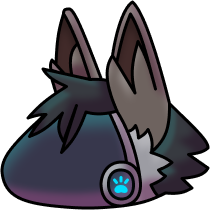
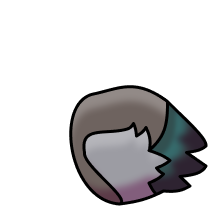
Improved animations

diff --git a/style/protogen.css b/style/protogen.css
@@ -5,8 +5,10 @@
   width: 150px;
   height: 150px;
   transform: scaleX(-1);
-  translate: -50% 0;
+  translate: -50% 10%;
   background: url(images/protogen/neck.png) no-repeat center top / contain;
+  pointer-events: none;
+  user-select: none;
 }
 
 .head {
@@ -21,14 +23,61 @@
   transition: transform 0.3s cubic-bezier(0.5, 0.8, 0, 1.3);
 }
 
+.ear {
+  position: absolute;
+  top: 11px;
+  right: 33px;
+  width: 124px;
+  height: 113px;
+  transition: transform 0.3s cubic-bezier(0.5, 0.8, 0, 2);
+}
+
+.ear.left {
+  transform: rotate(calc(-25deg * var(--mouse-progress-y))) scaleX(calc(0.975 - (0.025 * var(--mouse-progress-x))));
+  transform-origin: 25% 75%;
+  background: url(images/protogen/ear_left.png) no-repeat center top / contain;
+}
+
+.ear.right {
+  z-index: 2;
+  transform: rotate(calc(-5deg * var(--mouse-progress-y))) scaleX(calc(0.975 - (0.025 * var(--mouse-progress-x))));
+  transform-origin: 75% 75%;
+  background: url(images/protogen/ear_right.png) no-repeat center top / contain;
+}
+
+.hair {
+  z-index: 1;
+  position: absolute;
+  top: 61px;
+  right: 83px;
+  width: 93px;
+  height: 80px;
+  transform: translateX(calc(-2px * var(--mouse-progress-x))) scaleX(calc(0.975 - (0.025 * var(--mouse-progress-x))));
+  background: url(images/protogen/hair.png) no-repeat center top / contain;
+  transition: transform 0.3s cubic-bezier(0.5, 0.8, 0, 2);
+}
+
 .visor {
+  position: absolute;
+  bottom: 0;
+  left: 0;
+  width: 206px;
+  height: 206px;
+  transform: translateX(calc(-5px * var(--mouse-progress-x))) scaleX(calc(0.975 + (0.025 * var(--mouse-progress-x))));
+  background: url(images/protogen/visor.png) no-repeat center top / contain;
+  transition: transform 0.3s cubic-bezier(0.5, 0.8, 0, 2);
+}
+
+.visor-mask {
   -webkit-mask: url(images/protogen/head_mask.svg) no-repeat center top / contain;
   position: absolute;
   bottom: 3px;
   left: 3px;
   width: 136px;
   height: 94px;
+  transform: translateX(calc(-5px * var(--mouse-progress-x))) scaleX(calc(0.975 + (0.025 * var(--mouse-progress-x))));
   mask: url(images/protogen/head_mask.svg) no-repeat center top / contain;
+  transition: transform 0.3s cubic-bezier(0.5, 0.8, 0, 2);
 }
 
 #eyes {
@@ -60,5 +109,16 @@
   height: 10px;
   transform: translate(calc(-7px * var(--mouse-progress-x)), calc(5px * var(--mouse-progress-y)));
   transform-origin: top center;
+  transition: transform 0.3s cubic-bezier(0.5, 0.8, 0, 2);
+}
+
+.visor-shine {
+  position: absolute;
+  top: -35%;
+  right: 0;
+  width: 282px;
+  height: 117px;
+  transform: translateX(calc(-30px * var(--mouse-progress-x))) scaleX(calc(0.975 + (0.025 * var(--mouse-progress-x))));
+  background: url(images/protogen/visor_shine.png) no-repeat center top / contain;
   transition: transform 0.3s cubic-bezier(0.5, 0.8, 0, 2);
 }

diff --git a/index.html b/index.html
@@ -63,7 +63,12 @@
               <div class="col primary">
                 <div class="neck">
                   <div id="head" class="head">
-                    <div class="visor">
+                    <div class="ear left"></div>
+                    <div class="ear right"></div>
+                    <div class="visor"></div>
+                    <div class="hair"></div>
+                    <div class="visor-mask">
+                      <div class="visor-shine"></div>
                       <img src="/style/images/protogen/eyes_open.png" id="eyes" class="visor-sprite">
                       <img src="/style/images/protogen/mouth_closed.png" id="mouth" class="visor-sprite">
                       <img src="/style/images/protogen/nose.png" id="nose" class="visor-sprite">
@@ -73,12 +78,16 @@
               </div>
               <div class="col secondary">
                 <h1>MortCodesWeb</h1>
+                <p>Protogen Furry Wolf</p>
+                <p>Owner &amp; Lead Design and Development of Orchid Org.</p>
                 <p>Age: 18</p>
                 <p>Gender: Male</p>
                 <p>Web Developer</p>
                 <p>Software Developer</p>
                 <p>UI Designer</p>
                 <p>UI Animator</p>
+                <br>
+                <p>I bet you like this 2D proto animation i made</p>
               </div>
             </div>
           </div>
